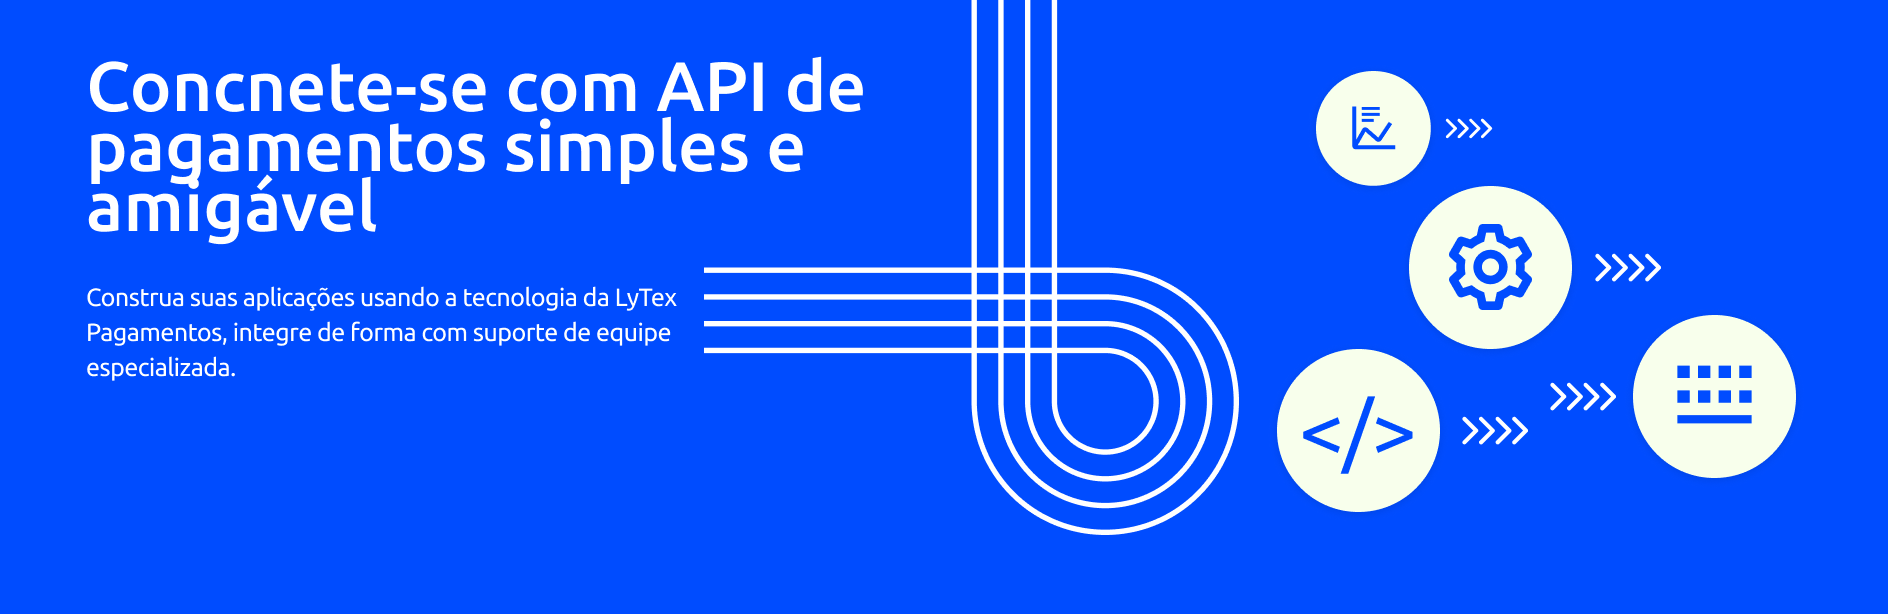
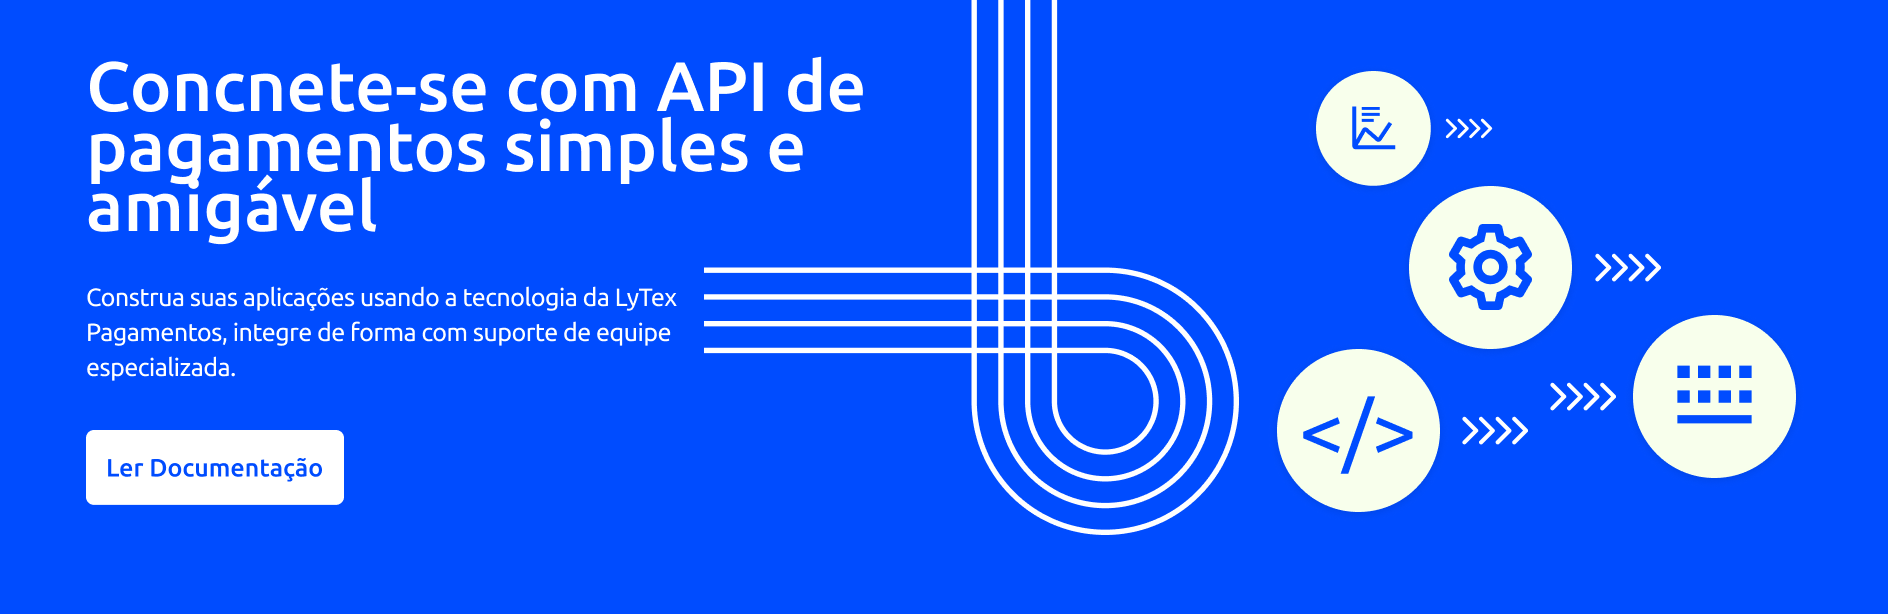
ajustes

Changed region(s): [[0.0312, 0.6808, 0.1875, 0.8355]]

diff --git a/src/pages/blocks/home-page.js b/src/pages/blocks/home-page.js
@@ -17,10 +17,11 @@ function Home() {
       cursor: pointer;
       background: #004CFF;
       background-image: url(/back1.png);
-      height: 70vh;
+      height: 60vh;
       background-repeat: no-repeat;
       background-position: bottom center;
       background-size: contain;
+      position: relative;
     }
     .title-home-page{
         font-family: 'Ubuntu';
